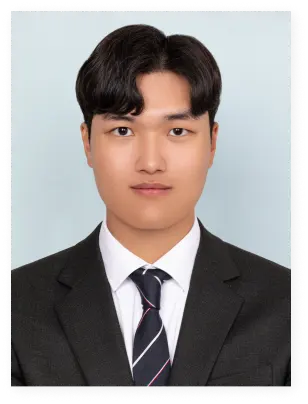
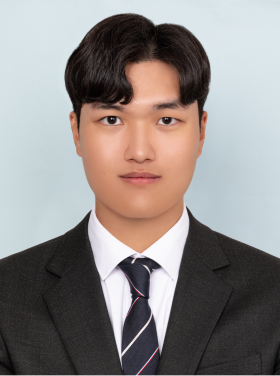
font 공통화
추후 컨셉에 맞게 세분화 및 폰트 컴포넌트 제작 예정

diff --git a/resources/css/styles.css b/resources/css/styles.css
@@ -128,22 +128,17 @@ table {
   --height-header: 80px;
 }
 
-h1 {
+h1, h2 {
   font: 500 46px/80px var(--font);
   color: var(--black);
 }
 
 h2 {
-  flex: 0 385px;
-  font: 500 50px/80px var(--font);
-  color: var(--black);
   text-align: right;
 }
 
 b {
-  display: block;
   font: 800 20px/30px var(--font);
-  margin-bottom: 30px;
 }
 
 html,
@@ -214,7 +209,7 @@ footer address {
 }
 .area-welcome > div {
   display: flex;
-  animation: loop 10s linear infinite;
+  animation: loop 60s linear infinite;
 }
 .area-welcome > div div {
   display: flex;
@@ -262,11 +257,11 @@ footer address {
 .area-intro img {
   filter: drop-shadow(3px 3px 14px rgba(0, 0, 0, 0.07));
 }
-.area-intro .wrap-title span {
-  font: 700 40px/60px var(--font);
-  color: var(--black);
+.area-intro .wrap-title > div h1 {
   text-align: right;
   margin-top: 10px;
+  font-weight: 700;
+  line-height: 100%;
 }
 .area-intro .wrap-dscpt span {
   text-decoration: underline;
@@ -298,6 +293,15 @@ footer address {
 .area-working > ul > li,
 .area-history > ul > li {
   flex: 1 1 calc(50% - 20px);
+}
+.area-working h2,
+.area-history h2 {
+  flex: 0 385px;
+}
+.area-working b,
+.area-history b {
+  display: block;
+  margin-bottom: 30px;
 }
 .area-working span:not(.letterSpacing),
 .area-history span:not(.letterSpacing) {
@@ -492,6 +496,11 @@ footer address {
   }
 }
 @media (max-width: 1440px) {
+  .area-intro img {
+    width: 280px;
+    height: auto;
+  }
+
   .area-working,
 .area-history {
     flex-direction: column;

diff --git a/resources/css/layout.css b/resources/css/layout.css
@@ -128,22 +128,17 @@ table {
   --height-header: 80px;
 }
 
-h1 {
+h1, h2 {
   font: 500 46px/80px var(--font);
   color: var(--black);
 }
 
 h2 {
-  flex: 0 385px;
-  font: 500 50px/80px var(--font);
-  color: var(--black);
   text-align: right;
 }
 
 b {
-  display: block;
   font: 800 20px/30px var(--font);
-  margin-bottom: 30px;
 }
 
 html,
@@ -214,7 +209,7 @@ footer address {
 }
 .area-welcome > div {
   display: flex;
-  animation: loop 10s linear infinite;
+  animation: loop 60s linear infinite;
 }
 .area-welcome > div div {
   display: flex;
@@ -262,11 +257,11 @@ footer address {
 .area-intro img {
   filter: drop-shadow(3px 3px 14px rgba(0, 0, 0, 0.07));
 }
-.area-intro .wrap-title span {
-  font: 700 40px/60px var(--font);
-  color: var(--black);
+.area-intro .wrap-title > div h1 {
   text-align: right;
   margin-top: 10px;
+  font-weight: 700;
+  line-height: 100%;
 }
 .area-intro .wrap-dscpt span {
   text-decoration: underline;
@@ -298,6 +293,15 @@ footer address {
 .area-working > ul > li,
 .area-history > ul > li {
   flex: 1 1 calc(50% - 20px);
+}
+.area-working h2,
+.area-history h2 {
+  flex: 0 385px;
+}
+.area-working b,
+.area-history b {
+  display: block;
+  margin-bottom: 30px;
 }
 .area-working span:not(.letterSpacing),
 .area-history span:not(.letterSpacing) {

diff --git a/resources/scss/layout.scss b/resources/scss/layout.scss
@@ -64,7 +64,7 @@ footer {
     overflow: hidden;
     & > div {
         display: flex;
-        animation: loop 10s linear infinite;
+        animation: loop 60s linear infinite;
         div {
             display: flex;
             gap: 75px;
@@ -129,11 +129,11 @@ footer {
         filter: drop-shadow(3px 3px 14px rgba(0, 0, 0, 0.07));
     }
     .wrap{
-        &-title span {
-            font: 700 40px/60px var(--font);
-            color: var(--black);
+        &-title > div h1 {
             text-align: right;
             margin-top: 10px;
+            font-weight: 700;
+            line-height: 100%;
         }
         &-dscpt span{
             text-decoration: underline;
@@ -162,6 +162,13 @@ footer {
         & > li{
             flex: 1 1 calc(50% - 20px)
         }
+    }
+    h2{
+	    flex: 0 385px;
+    }
+    b{
+        display: block;
+        margin-bottom: 30px;
     }
     span {
         &:not(.letterSpacing) {

diff --git a/index.html b/index.html
@@ -39,10 +39,10 @@
                 <h1>안녕하세요!<br/>저는 견고한 UI와<br/>무결점 코드를 작성하는<br/>ENTJ 웹 퍼블리셔입니다✌</h1>
                 <div>
                     <picture>
-                        <source srcset="./resources/images/photo-1440.webp" media="(max-width: 1440px)">
+                        <!-- <source srcset="./resources/images/photo-1440.webp" media="(max-width: 1440px)"> -->
                         <img src="./resources/images/photo-1920.webp" width="427.9" height="550" alt="이 포트폴리오의 주인인 은영환의 증명사진 입니다.">
                     </picture>
-                    <span>@illusion__is</span>
+                    <h1>@illusion__is</h1>
                 </div>
             </div>
             <div class="wrap-dscpt">

diff --git a/resources/css/common.css b/resources/css/common.css
@@ -127,20 +127,15 @@ table {
   --height-header: 80px;
 }
 
-h1 {
+h1, h2 {
   font: 500 46px/80px var(--font);
   color: var(--black);
 }
 
 h2 {
-  flex: 0 385px;
-  font: 500 50px/80px var(--font);
-  color: var(--black);
   text-align: right;
 }
 
 b {
-  display: block;
   font: 800 20px/30px var(--font);
-  margin-bottom: 30px;
 }

diff --git a/resources/scss/common.scss b/resources/scss/common.scss
@@ -62,18 +62,13 @@ table {
 	--height-header: 80px;
 }
 
-h1 {
+h1, h2 {
 	font: 500 46px/80px var(--font);
 	color: var(--black);
 }
 h2{
-	flex: 0 385px;
-	font: 500 50px/80px var(--font);
-	color: var(--black);
 	text-align: right;
 }
 b{
-	display: block;
 	font: 800 20px/30px var(--font);
-	margin-bottom: 30px;
 }

diff --git a/resources/scss/styles.scss b/resources/scss/styles.scss
@@ -29,7 +29,10 @@
 // NOTE: Laptop L
 @media (max-width: 1440px   ){
     .area-intro{
-        // picture
+        img{
+            width: 280px;
+            height: auto;
+        }
     }
 
     .area-working,
